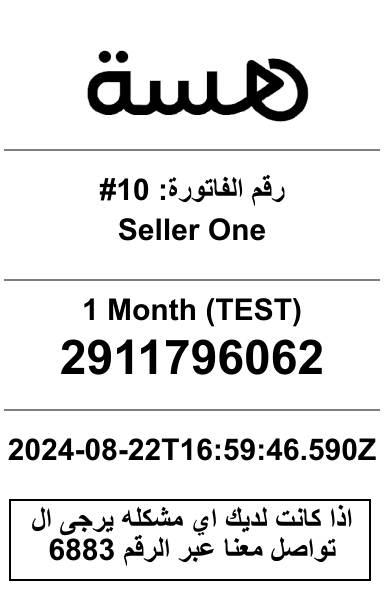
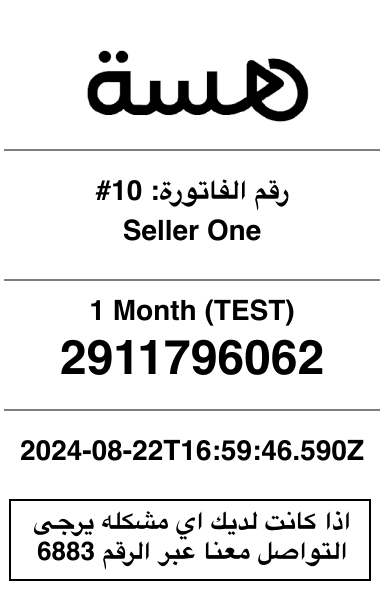
update

diff --git a/routers/POS.js b/routers/POS.js
@@ -397,7 +397,7 @@ router.get("/invoice/:id", async (req, res) => {
     const date = new Date(payment?.createtAt).toISOString();
     const msg = "اذا كانت لديك اي مشكله يرجى التواصل معنا عبر الرقم 6883";
 
-    const lines = msg.match(/.{1,30}/g); // Adjust 40 to your preferred line length
+    const lines = msg.match(/.{1,28}/g); // Adjust 40 to your preferred line length
 
     // Create Arabic text as an SVG with matching width
     const textSvg = Buffer.from(`
@@ -405,13 +405,17 @@ router.get("/invoice/:id", async (req, res) => {
         <style>
         
            *{
-            font-family: 'Arial' !important;
-            font-size: 30px;
+         font-family: 'Times';
+            font-size: 28px;
              font-weight: bold;
             }
 
             .code{
              font-size: 48px;
+             font-weight: bold;
+            }
+            .msg{
+             font-size: 26px;
              font-weight: bold;
             }
         </style>
@@ -432,7 +436,7 @@ router.get("/invoice/:id", async (req, res) => {
         ${lines
           .map(
             (line, index) => `
-          <text x="50%" y="${
+          <text class="msg" x="50%" y="${
             530 + index * 30
           }" text-anchor="middle" fill="black">${line}</text>
         `
